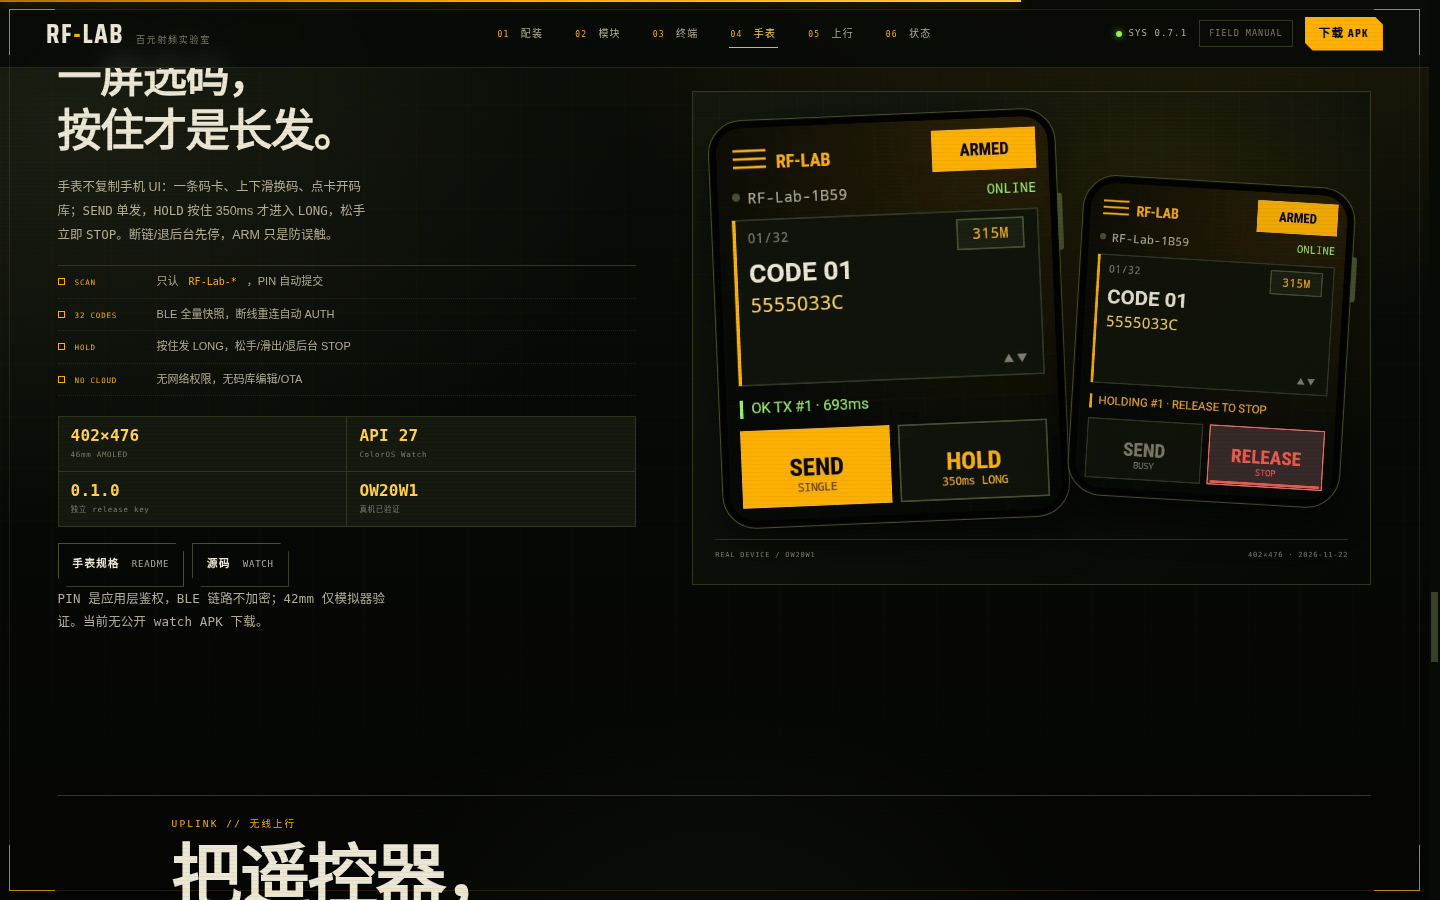
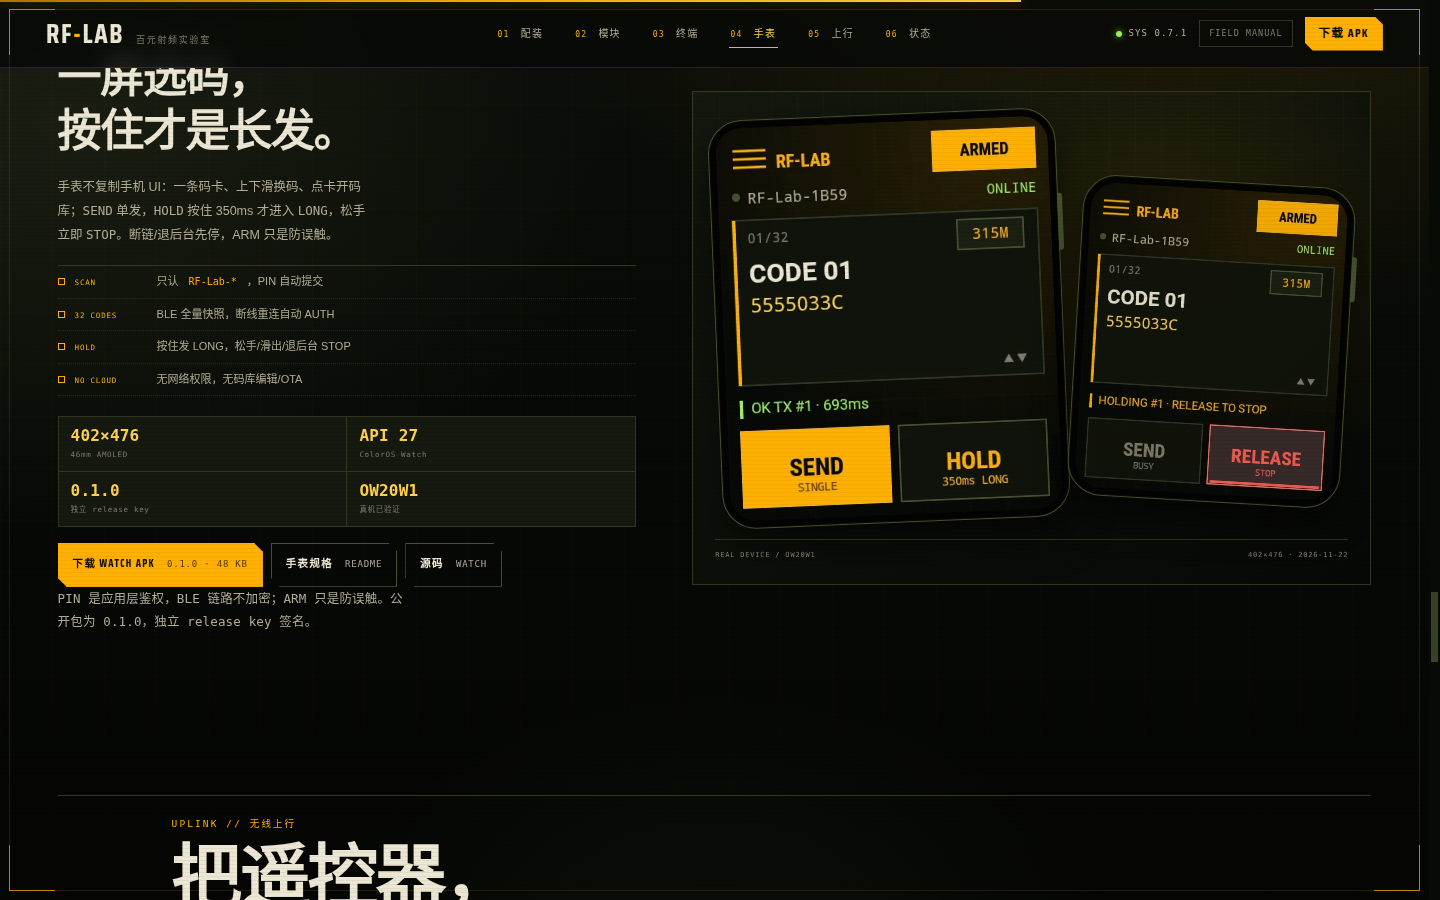
docs(watch): record public 0.1.0 release assets and live link
Record tag watch-v0.1.0, release workflow run 45002842295, public asset sha256 739afa..., non-latest guarantee, public APK overwrite-install regression (SEND 736 ms), and the live Pages deployment. Update the site screenshot to include the download CTA.

Changed region(s): [[0.0312, 0.5911, 0.3438, 0.7156]]

diff --git a/docs/evidence/2026-11-22-watch-release.md b/docs/evidence/2026-11-22-watch-release.md
@@ -31,7 +31,8 @@ cd watch && ../android/gradlew assembleRelease
 |---|---|
 | 产物 | `watch/app/build/outputs/apk/release/app-release.apk` |
 | 大小 | 48,244 B |
[3 lines of base64/hex data omitted]
 | 包 / 版本 | `dev.rflab.watch` 0.1.0(versionCode 1) |
 | 签名 | v1 false / **v2 true** |
 | debuggable | 无(`aapt2 dump badging` 无 `application-debuggable`) |
@@ -45,7 +46,7 @@ adb shell pm grant dev.rflab.watch android.permission.ACCESS_FINE_LOCATION
 ```
 
 签名不同,**必须卸载 debug**;手表上的 PIN/设备/选中码被清空,首装后重新配对。
-`firstInstallTime=2026-11-22 15:57:31`,release 包已安装在 OW20W1。
+`firstInstallTime=2026-11-22 15:57:31`;公开资产在 16:28:41 覆盖安装成功。
 
 ## Release 真机回归
 
@@ -78,11 +79,12 @@ html 43,620 B gzip 13,751 B
 - [site-watch-desktop](2026-11-22-watch-release/site-watch-desktop.png)
 - [site-watch-mobile](2026-11-22-watch-release/site-watch-mobile.png)
 
-**已部署(2026-11-22)**:commit `e359992`;CI
-[45001726458](https://github.com/heiheiheiheiheihei/rf-lab/actions/runs/45001726458) 绿,
-Pages [45001726431](https://github.com/heiheiheiheiheihei/rf-lab/actions/runs/45001726431) 成功。
-线上 `https://heiheiheiheiheihei.github.io/rf-lab/` 返回 200,页面含 `id="watch"`,
-`assets/watch-control.webp` / `watch-hold.webp` 均 200。
+**已部署(2026-11-22)**:commit `519f124`;CI
+[45002834740](https://github.com/heiheiheiheiheihei/rf-lab/actions/runs/45002834740) 绿,
+Pages [45002834771](https://github.com/heiheiheiheiheihei/rf-lab/actions/runs/45002834771) 成功。
+线上 `https://heiheiheiheiheihei.github.io/rf-lab/` 返回 200,页面含 `id="watch"` 和
+`releases/download/watch-v0.1.0/rf-lab-watch.apk`;`watch-control.webp` / `watch-hold.webp`
+均 200。手表区截图已更新为含下载按钮的版本。
 
 ## 公开 Release
 
@@ -93,7 +95,10 @@ Pages [45001726431](https://github.com/heiheiheiheiheihei/rf-lab/actions/runs/45
 | 下载 | <https://github.com/heiheiheiheiheihei/rf-lab/releases/download/watch-v0.1.0/rf-lab-watch.apk> |
 | 构建 | `.github/workflows/watch-release.yml`(tag 触发,独立 watch key secrets) |
 | latest | **明确 false**:不抢手机 APK 的 `releases/latest` |
+| 构建 run | [45002842295](https://github.com/heiheiheiheiheihei/rf-lab/actions/runs/45002842295) |
[1 lines of base64/hex data omitted]
 | 安装 | `adb install -r rf-lab-watch.apk`;debug → release 仍需卸载 debug |
+| 公开包回归 | 覆盖安装后自动重连/PIN 记忆保留;`SEND` → `OK TX #1 · 736ms`([public-send](2026-11-22-watch-release/public-send.png)) |
 
 公开包只覆盖 0.1.0 的 46mm 控制路径;码库编辑/OTA 不在范围内。安装包 SHA-256
 以 Release 的 `SHA256SUMS.txt` 为准。

diff --git a/watch/README.md b/watch/README.md
@@ -182,7 +182,7 @@ cd watch && ../android/gradlew assembleRelease
 | 证书 SHA-256 | `ED:C2:A5:C1:0E:68:C3:35:A9:D7:7B:BD:44:C6:C1:34:18:A8:08:7B:EE:DD:D8:47:BE:05:51:3B:A4:90:94:A7` |
 | 签名方案 | APK Signature Scheme v2(Android 8.1 支持) |
 | 产物 | `watch/app/build/outputs/apk/release/app-release.apk` |
-| 公开 Release | [watch-v0.1.0](https://github.com/heiheiheiheiheihei/rf-lab/releases/tag/watch-v0.1.0) |
+| 公开 Release | [watch-v0.1.0](https://github.com/heiheiheiheiheihei/rf-lab/releases/tag/watch-v0.1.0) · sha256 `739afa…` |
 
 **debug → release 不能覆盖安装**:签名不同,必须先 `adb uninstall dev.rflab.watch`,
 会清掉记住的 PIN/设备/选中码。首装 release 后重新配对即可。
@@ -245,7 +245,7 @@ adb shell am start -n dev.rflab.watch/.WatchActivity --ez demo true --ez demo_tx
 
 | ID | 项 | 通过标准 | 状态 |
 |---|---|---|---|
-| WATCH-01 | 构建/签名 | debug 可构建;release 用独立 key,v2 验签通过 | ✅ 2026-11-22,debug 103,784B;release 48,244B/sha256 `4bd74c…`;v2 签名;Lint 0 |
+| WATCH-01 | 构建/签名 | debug 可构建;release 用独立 key,v2 验签通过 | ✅ debug 103,784B;公开资产 48,244B/sha256 `739afa…`;v2;Lint 0 |
 | WATCH-02 | 主机测试 | 协议解析/选择逻辑全过 | ✅ 2026-11-22,`ProtocolTest` 9/9 |
 | WATCH-03 | 安装/启动 | 手表 `adb install` 成功;冷启动无崩溃 | ✅ 2026-11-22,OW20W1 / API 27 |
 | WATCH-04 | 屏幕适配 | 46mm 402×476 无裁切;按钮命中正确 | ✅ 46mm 真机 OW20W1 |

diff --git a/site/README.md b/site/README.md
@@ -30,7 +30,7 @@ python3 -m http.server 8088 -d site
 | 01 配装台 | **硬件链路图**(CORE-C3 + YS-RF34DL,四线)、4 档预设、9 个可选模块、实时物料小计/余量/能力矩阵 | 勾选、预算滑杆、随机配装、削到预算内、复制配装单;点图打开 SVG 原图 |
 | 02 模块阵列 | 对数频段覆盖图、模块规格表、**主控/模块两张硬件细节卡**、三条设计判断 | 表格/频段条;点图打开 SVG 原图 |
 | 03 战术终端 | **内嵌真实单页 UI**(iframe,`assets/terminal.html`);WEB/APP/UCONSOLE 三视口 | 直接 ARM/SEND/LONG/STOP/ERASE;模拟遥控器/重置;事件流(标 SIM) |
-| 04 手表控制 | OPPO Watch 2 实机截图(402×476)、LINK→PIN→CONTROL、HOLD/LONG/STOP | 静态截图 + 源码/规格链接;不提供未发布 APK |
+| 04 手表控制 | OPPO Watch 2 实机截图(402×476)、LINK→PIN→CONTROL、HOLD/LONG/STOP | 静态截图 + 公开 APK / 源码 / 规格链接 |
 | 05 无线上行 | 本地 MQTT + Home Assistant Discovery 拓扑与 topic 草案 | 强制 `ROADMAP / 未实现` 标识 |
 | 06 作战状态 | 构建 / 主机 / 上机分开列;版本线 | 无 |
 | Footer | 安全边界、文档入口、来源(含 APK / Releases) | 键盘 `B/T/W/U/R/?` |
